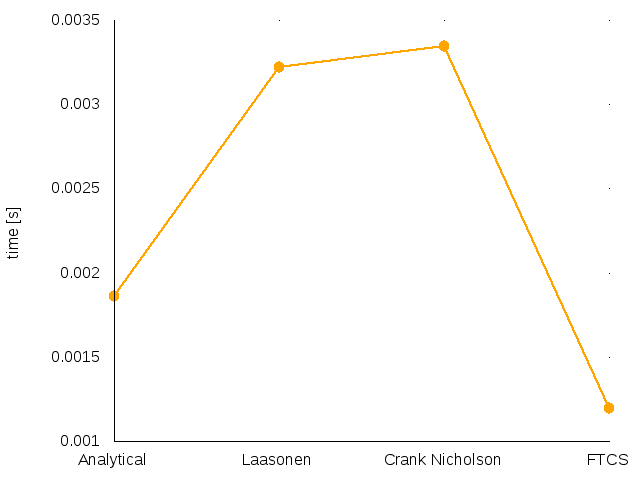
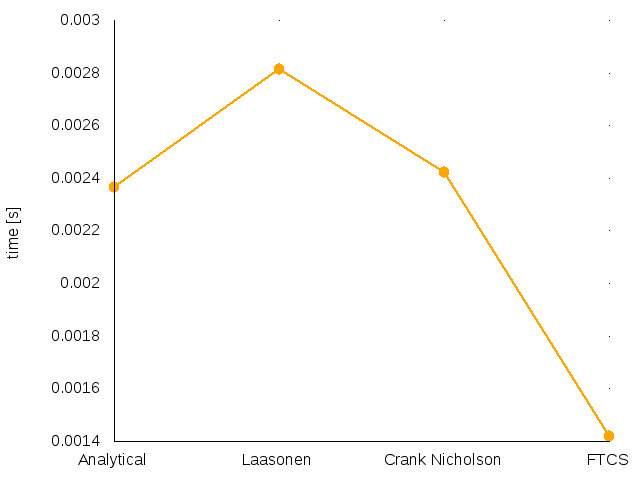
now using the correct number of processes

diff --git a/src/mpi/mpimanager.cpp b/src/mpi/mpimanager.cpp
@@ -11,8 +11,35 @@ void MPImanager::initialize(int *argc, char ** argv[]) {
 
 void MPImanager::set_size(size_t size) {
 	this->size = size;
+
+	if ((int)size < number_processes) {
+		MPI_Group world_group;
+		MPI_Comm_group(MPI_COMM_WORLD, &world_group);
+
+		MPI_Group new_group;
+		int ranges[3] = {(int)size, number_processes - 1, 1 };
+		MPI_Group_range_excl(world_group, 1, &ranges, &new_group);
+
+		MPI_Comm_create(MPI_COMM_WORLD, new_group, &world);
+
+		used_processes = size;
+	} else {
+		world = MPI_COMM_WORLD;
+		used_processes = number_processes;
+	}
+
 	size_t lower = lower_bound(), upper = upper_bound();
 	sub_matrices = alloc3d(SOLUTIONS_NR, (NUMBER_TIME_STEPS - 1), (upper - lower + 1));
+
+
+}
+
+MPI_Comm MPImanager::get_world() {
+	return world;
+}
+
+bool MPImanager::part_of_world() {
+	return rank < (int)used_processes;
 }
 
 void MPImanager::finalize() {
@@ -25,7 +52,7 @@ int MPImanager::get_rank() {
 }
 
 int MPImanager::get_number_processes() {
-	return number_processes;
+	return used_processes;
 }
 
 bool MPImanager::is_root() {
@@ -33,30 +60,30 @@ bool MPImanager::is_root() {
 }
 
 bool MPImanager::is_last() {
-	return rank == number_processes - 1;
+	return rank == used_processes - 1;
 }
 
 bool MPImanager::one_process() {
-	return 0 == number_processes;
+	return 0 == used_processes;
 }
 
 size_t MPImanager::lower_bound() {
-	return rank * size / number_processes;
+	return rank * size / used_processes;
 }
 
 size_t MPImanager::upper_bound() {
-	return (rank + 1) * size / number_processes - 1;
+	return (rank + 1) * size / used_processes - 1;
 }
 
 void MPImanager::collect_results(vector<Method*> &solutions) {
 
-	for (int p = 0; p < number_processes; p++) {
-		size_t lower = p * size / number_processes, upper = (p + 1) * size / number_processes - 1;
+	for (int p = 0; p < used_processes; p++) {
+		size_t lower = p * size / used_processes, upper = (p + 1) * size / used_processes - 1;
 		size_t count = solutions.size() * (NUMBER_TIME_STEPS - 1) * (upper - lower + 1);
 		double buffer[count];
 
 		if (p != 0) {
-			MPI_Recv(buffer, count, MPI_DOUBLE, p, p, MPI_COMM_WORLD, MPI_STATUS_IGNORE);
+			MPI_Recv(buffer, count, MPI_DOUBLE, p, p, world, MPI_STATUS_IGNORE);
 		}
 
 		for (size_t i = 0; i < solutions.size(); i++) {
@@ -83,7 +110,7 @@ void MPImanager::send_results() {
 		}
 	}
 
-	MPI_Send(buffer, count, MPI_DOUBLE, 0, rank, MPI_COMM_WORLD);
+	MPI_Send(buffer, count, MPI_DOUBLE, 0, rank, world);
 }
 
 void MPImanager::add_sub_matrix(size_t i, double ** sub_matrix) {

diff --git a/src/main.cpp b/src/main.cpp
@@ -18,32 +18,36 @@ int main(int argc, char * argv[]) {
 
 		IOManager io_manager;
 		Problem * default_problem = new Problem(DELTA_T[i], DELTA_X[i]);
-
 		mpi_manager->set_size(default_problem->get_xsize() - 1);
-		size_t lower = mpi_manager->lower_bound(), upper = mpi_manager->upper_bound();
 
-		Analytical * analytical = new Analytical(*default_problem);
-		FTCS * ftcs = new FTCS(*default_problem);
-		Laasonen * laasonen = new Laasonen(*default_problem);
-		CrankNicolson * crank_nicolson = new CrankNicolson(*default_problem);
+		if (mpi_manager->part_of_world()) {
 
-		std::vector<Method*> solutions = {analytical, laasonen, crank_nicolson, ftcs};
+			size_t lower = mpi_manager->lower_bound(), upper = mpi_manager->upper_bound();
 
-		for (size_t index = 0; index < solutions.size(); index++) {
-			solutions[index]->compute(mpi_manager, index);
+			Analytical * analytical = new Analytical(*default_problem);
+			FTCS * ftcs = new FTCS(*default_problem);
+			Laasonen * laasonen = new Laasonen(*default_problem);
+			CrankNicolson * crank_nicolson = new CrankNicolson(*default_problem);
+
+			std::vector<Method*> solutions = {analytical, laasonen, crank_nicolson, ftcs};
+
+			for (size_t index = 0; index < solutions.size(); index++) {
+				solutions[index]->compute(mpi_manager, mpi_manager->get_world(), index);
+			}
+
+			if (mpi_manager->is_root()) {
+				std::cout << "Collecting results." << std::endl;
+				mpi_manager->collect_results(solutions);
+				io_manager.export_analytical(solutions[0]);
+				std::vector<Method*> methods(solutions.begin() + 1, solutions.end());
+				io_manager.export_outputs(solutions[0], methods, mpi_manager->get_number_processes());
+			} else {
+				std::cout << "Sending results." << std::endl;
+				mpi_manager->send_results();
+			}
 		}
 
-		if (mpi_manager->is_root()) {
-			std::cout << "Collecting results." << std::endl;
-			mpi_manager->collect_results(solutions);
-			io_manager.export_analytical(solutions[0]);
-			std::vector<Method*> methods(solutions.begin() + 1, solutions.end());
-			io_manager.export_outputs(solutions[0], methods, mpi_manager->get_number_processes());
-		} else {
-			std::cout << "Sending results." << std::endl;
-			mpi_manager->send_results();
-		}
-
+		MPI_Barrier(MPI_COMM_WORLD);
 	}
 
 	mpi_manager->finalize();

diff --git a/src/methods/explicit/explicit.cpp b/src/methods/explicit/explicit.cpp
@@ -82,24 +82,24 @@ void Explicit::wait(MPImanager * mpi_manager, size_t i) {
 void Explicit::exchange_data(MPImanager *mpi_manager, size_t i, double * result) {
 	if (mpi_manager->one_process()) return;
 	int rank = mpi_manager->get_rank();
-
+	MPI_Comm world = mpi_manager->get_world();
 	if (i == 0) {
 		if (!mpi_manager->is_root()) {
-			MPI_Isend(&result[i], 1, MPI_DOUBLE, rank - 1, 0, MPI_COMM_WORLD, &requests[0]);
+			MPI_Isend(&result[i], 1, MPI_DOUBLE, rank - 1, 0, world, &requests[0]);
 			if (!request_status[0]) request_status[0] = true;
 		}
 		if (!mpi_manager->is_last()) {
-			MPI_Irecv(&forward, 1, MPI_DOUBLE, rank + 1, 0, MPI_COMM_WORLD, &requests[1]);
+			MPI_Irecv(&forward, 1, MPI_DOUBLE, rank + 1, 0, world, &requests[1]);
 			if (!request_status[1]) request_status[1] = true;
 		}
 	}
 	if (i == size) {
 		if (!mpi_manager->is_last()) {
-			MPI_Isend(&result[i], 1, MPI_DOUBLE, rank + 1, 0, MPI_COMM_WORLD, &requests[2]);
+			MPI_Isend(&result[i], 1, MPI_DOUBLE, rank + 1, 0, world, &requests[2]);
 			if (!request_status[2]) request_status[2] = true;
 		}
 		if (!mpi_manager->is_root()) {
-			MPI_Irecv(&back, 1, MPI_DOUBLE, rank - 1, 0, MPI_COMM_WORLD, &requests[3]);
+			MPI_Irecv(&back, 1, MPI_DOUBLE, rank - 1, 0, world, &requests[3]);
 			if (!request_status[3]) request_status[3] = true;
 		}
 	}

diff --git a/src/methods/implicit/implicit.cpp b/src/methods/implicit/implicit.cpp
@@ -157,16 +157,17 @@ double * Implicit::spikes_algorithm(MPImanager *mpi_manager, double * y, double 
 double * Implicit::exchange_data(MPImanager *mpi_manager, double &head, double &tail) {
 	if (mpi_manager->one_process()) return NULL;
 
+	MPI_Comm world = mpi_manager->get_world();
 	size_t y_size = mpi_manager->get_number_processes() * 2;
 	double * y = (double *) malloc(sizeof(double) * y_size), g[2] = { head, tail }, *x = (double *) malloc(sizeof(double) * y_size);
 
-	MPI_Gatherv(g, 2, MPI_DOUBLE, &y[0], receive_count, receive_pos, MPI_DOUBLE, 0, MPI_COMM_WORLD);
+	MPI_Gatherv(g, 2, MPI_DOUBLE, &y[0], receive_count, receive_pos, MPI_DOUBLE, 0, world);
 
 	if (mpi_manager->is_root()) {
 		x = gaussian_elimination(spike_matrix, y, y_size);
 	}
 
-	MPI_Bcast(&x[0], y_size, MPI_DOUBLE, 0, MPI_COMM_WORLD);
+	MPI_Bcast(&x[0], y_size, MPI_DOUBLE, 0, world);
 
 	size_t index = mpi_manager->get_rank() * 2;
 	if (!mpi_manager->is_root()) {

diff --git a/src/variants/utils.h b/src/variants/utils.h
@@ -5,8 +5,8 @@
 #include <string> // string usage
 #include <vector>
 
-const double DELTA_T[2] = { 0.01, 0.001 }; /**< Macro double. The default time step. */
-const double DELTA_X[2] = { 0.05, 0.005 }; /**< Macro double. The default space step. */
+const double DELTA_T[2] = { 0.1, 0.001 }; /**< Macro double. The default time step. */
+const double DELTA_X[2] = { 0.5, 0.005 }; /**< Macro double. The default space step. */
 
 const std::vector<double> DELTA_T_LASSONEN = {0.01, 0.025, 0.05, 0.1}; /**< Macro double. Time steps to study in Laasonen Implicit Scheme. */
 

diff --git a/src/methods/method.cpp b/src/methods/method.cpp
@@ -19,15 +19,15 @@ Method::Method(Problem problem) {
 /*
  * public method - compute a solution keeping track of spent time
  */
-void Method::compute(MPImanager *mpi_manager, size_t index) {
+void Method::compute(MPImanager *mpi_manager, MPI_Comm world, size_t index) {
 	double start = 0.0, end = 0.0;
 	
-	MPI_Barrier(MPI_COMM_WORLD);
+	MPI_Barrier(world);
 	start = MPI_Wtime();
 
 	compute_solution(mpi_manager, index);
 
-	MPI_Barrier(MPI_COMM_WORLD);
+	MPI_Barrier(world);
 	end = MPI_Wtime();
 
 	computational_time = double(end - start);

diff --git a/src/mpi/mpimanager.h b/src/mpi/mpimanager.h
@@ -11,13 +11,16 @@ class MPImanager {
 private:
 	int rank;
 	int number_processes;
+	int used_processes;
 	size_t size;
 	double *** sub_matrices;
-	
+	MPI_Comm world;
 public:
 	MPImanager();
 	void initialize(int *argc, char ** argv[]);
 	void finalize();
+	MPI_Comm get_world();
+	bool part_of_world();
 	int get_rank();
 	int get_number_processes();
 	bool is_root();

diff --git a/src/methods/method.h b/src/methods/method.h
@@ -97,7 +97,7 @@ public:
 	* Normal public method.
 	* Keeps track of the time to compute a solution
 	*/
-	void compute(MPImanager *mpi_manager, size_t index);
+	void compute(MPImanager *mpi_manager, MPI_Comm world, size_t index);
 
 	void set_value(size_t i, size_t j, double value);
 
